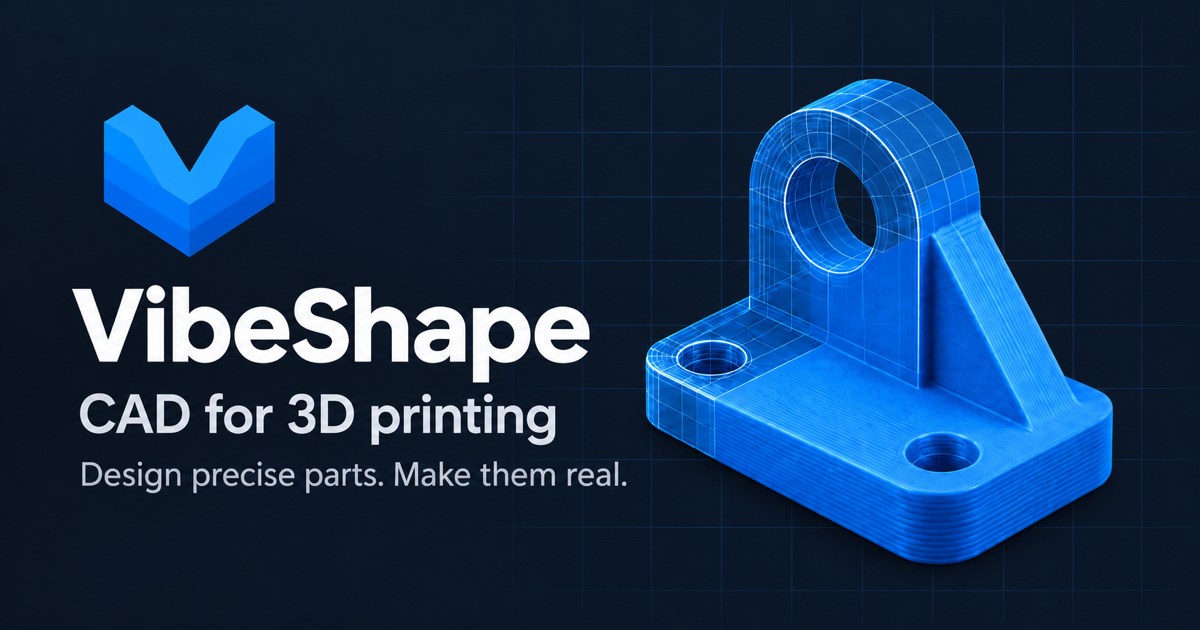
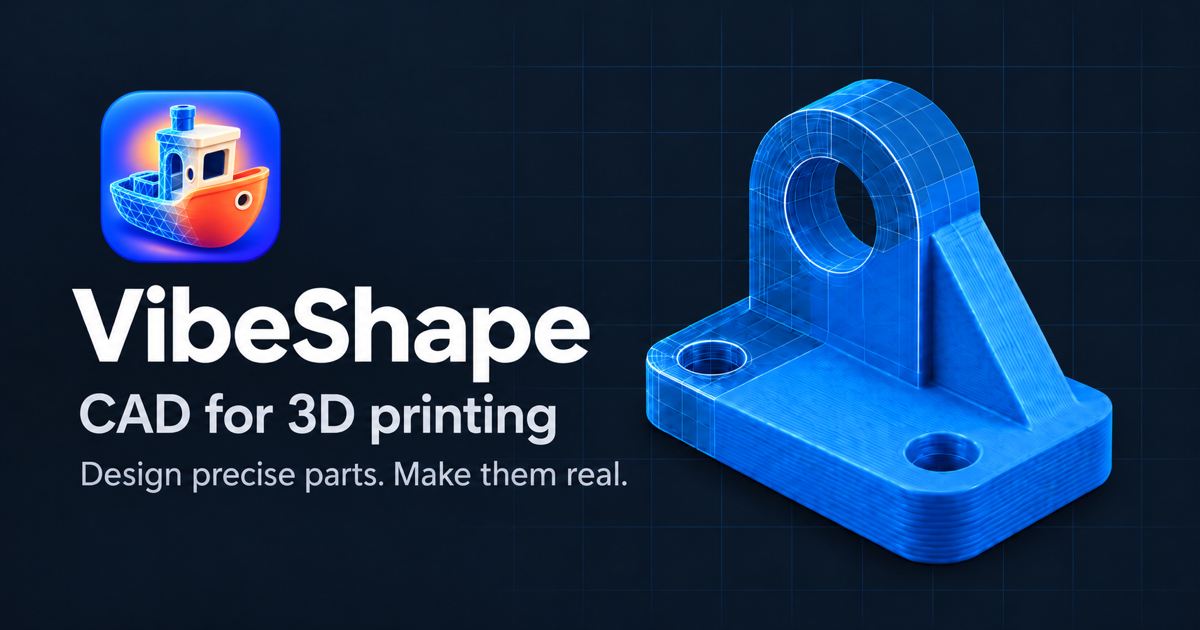
feat(site): unify Benchy branding and desktop downloads

diff --git a/tests/site/presentation.spec.ts b/tests/site/presentation.spec.ts
@@ -180,7 +180,7 @@ test("the presentation explains the workflow and links to the real editor", asyn
   )
   await expect(page.locator('meta[property="og:image"]').first()).toHaveAttribute(
     "content",
-    "https://vibeshape.hello-world.cz/brand/og-light.png",
+    "https://vibeshape.hello-world.cz/brand/og-light.png?v=benchy-mesh",
   )
   await page.getByRole("button", { name: "Sketch", exact: true }).click()
   await expect(page.getByRole("heading", { name: "Start with what has to fit." })).toBeVisible()
@@ -233,16 +233,29 @@ test("every documentation article supports direct links and return navigation", 
   await expect(page.getByRole("heading", { level: 1 })).toContainText("CAD for things")
 })
 
-test("downloads distinguish missing installers from usable installation paths", async ({
-  page,
-}) => {
+test("downloads show the published Mac release with aligned primary actions", async ({ page }) => {
+  await page.setViewportSize({ width: 1440, height: 900 })
   await page.goto("/#downloads")
   const downloads = page.locator("#downloads")
-  await expect(downloads.getByText("Not published yet", { exact: true })).toBeVisible()
-  await expect(downloads.getByRole("link", { name: "Check GitHub releases" })).toHaveAttribute(
+  await expect(downloads.getByText("macOS · Apple Silicon · v0.1.4", { exact: true })).toBeVisible()
+  await expect(downloads.getByRole("link", { name: "All releases & checksums" })).toHaveAttribute(
     "href",
     "https://github.com/kolengri/VibeShape/releases",
   )
+  await expect(downloads.getByRole("link", { name: "Download for Apple Silicon" })).toHaveAttribute(
+    "href",
+    "https://github.com/kolengri/VibeShape/releases/download/desktop-v0.1.4/VibeShape-0.1.4-mac-arm64.dmg",
+  )
+  await expect(downloads).toContainText("not notarized by Apple")
+  const actions = ["Open VibeShape", "Local installation guide", "Download for Apple Silicon"]
+  const bounds = await Promise.all(
+    actions.map((name) => downloads.getByRole("link", { name, exact: true }).boundingBox()),
+  )
+  for (const boundsAtIndex of bounds) {
+    expect(boundsAtIndex).not.toBeNull()
+    expect(boundsAtIndex?.y).toBeCloseTo(bounds[0]?.y ?? 0, 0)
+    expect(boundsAtIndex?.height).toBe(bounds[0]?.height)
+  }
   await expect(downloads.getByRole("link", { name: "macOS desktop build guide" })).toHaveAttribute(
     "href",
     "https://github.com/kolengri/VibeShape/blob/main/docs/desktop-macos.md",
@@ -439,12 +452,12 @@ test.describe("social previews", () => {
     )
     await expect(page.locator('meta[name="twitter:image"]')).toHaveAttribute(
       "content",
-      "https://vibeshape.hello-world.cz/brand/og-light.png",
+      "https://vibeshape.hello-world.cz/brand/og-light.png?v=benchy-mesh",
     )
     await expect(page.locator('meta[property="og:image:width"]')).toHaveCount(2)
     await expect(page.locator('meta[property="og:image:height"]')).toHaveCount(2)
     for (const [index, theme] of ["light", "dark"].entries()) {
-      const url = `https://vibeshape.hello-world.cz/brand/og-${theme}.png`
+      const url = `https://vibeshape.hello-world.cz/brand/og-${theme}.png?v=benchy-mesh`
       await expect(images.nth(index)).toHaveAttribute("content", url)
       await expect(page.locator('meta[property="og:image:width"]').nth(index)).toHaveAttribute(
         "content",

diff --git a/apps/site/index.html b/apps/site/index.html
@@ -11,25 +11,28 @@
     <meta property="og:site_name" content="VibeShape" />
     <meta property="og:locale" content="en_US" />
     <meta property="og:url" content="https://vibeshape.hello-world.cz/" />
-    <meta property="og:image" content="https://vibeshape.hello-world.cz/brand/og-light.png" />
-    <meta property="og:image:secure_url" content="https://vibeshape.hello-world.cz/brand/og-light.png" />
+    <meta property="og:image" content="https://vibeshape.hello-world.cz/brand/og-light.png?v=benchy-mesh" />
+    <meta property="og:image:secure_url" content="https://vibeshape.hello-world.cz/brand/og-light.png?v=benchy-mesh" />
     <meta property="og:image:type" content="image/png" />
     <meta property="og:image:width" content="1200" />
     <meta property="og:image:height" content="630" />
-    <meta property="og:image:alt" content="VibeShape CAD for 3D printing: blue mechanical bracket on a light blueprint grid." />
-    <meta property="og:image" content="https://vibeshape.hello-world.cz/brand/og-dark.png" />
-    <meta property="og:image:secure_url" content="https://vibeshape.hello-world.cz/brand/og-dark.png" />
+    <meta property="og:image:alt" content="VibeShape Benchy wireframe-to-solid logo and blue mechanical bracket on a light blueprint grid." />
+    <meta property="og:image" content="https://vibeshape.hello-world.cz/brand/og-dark.png?v=benchy-mesh" />
+    <meta property="og:image:secure_url" content="https://vibeshape.hello-world.cz/brand/og-dark.png?v=benchy-mesh" />
     <meta property="og:image:type" content="image/png" />
     <meta property="og:image:width" content="1200" />
     <meta property="og:image:height" content="630" />
-    <meta property="og:image:alt" content="VibeShape CAD for 3D printing: blue mechanical bracket on a dark blueprint grid." />
+    <meta property="og:image:alt" content="VibeShape Benchy wireframe-to-solid logo and blue mechanical bracket on a dark blueprint grid." />
     <meta name="twitter:card" content="summary_large_image" />
     <meta name="twitter:title" content="VibeShape — Design precise parts. Make them real." />
     <meta name="twitter:description" content="Free, local-first CAD for 3D printing. Your browser. Your models. Your next idea." />
-    <meta name="twitter:image" content="https://vibeshape.hello-world.cz/brand/og-light.png" />
-    <meta name="twitter:image:alt" content="VibeShape CAD for 3D printing: blue mechanical bracket on a light blueprint grid." />
+    <meta name="twitter:image" content="https://vibeshape.hello-world.cz/brand/og-light.png?v=benchy-mesh" />
+    <meta name="twitter:image:alt" content="VibeShape Benchy wireframe-to-solid logo and blue mechanical bracket on a light blueprint grid." />
     <link rel="canonical" href="https://vibeshape.hello-world.cz/" />
-    <link rel="icon" type="image/png" href="./favicon-32.png" />
+    <link rel="icon" href="./favicon.ico?v=benchy-mesh" sizes="16x16 32x32 48x48" />
+    <link rel="icon" type="image/png" href="./favicon-32.png?v=benchy-mesh" sizes="32x32" />
+    <link rel="icon" type="image/png" href="./favicon-192.png?v=benchy-mesh" sizes="192x192" />
+    <link rel="apple-touch-icon" href="./apple-touch-icon.png?v=benchy-mesh" sizes="180x180" />
     <title>VibeShape — CAD for things you can make</title>
   </head>
   <body>

diff --git a/apps/site/src/app.tsx b/apps/site/src/app.tsx
@@ -18,7 +18,14 @@ import {
 } from "lucide-react"
 import { type MouseEvent, type ReactNode, useEffect, useState, useSyncExternalStore } from "react"
 import { HeroVisual } from "./hero-visual"
-import { articles, editorUrl, referenceUrl, releasesUrl, repository } from "./links"
+import {
+  articles,
+  desktopDownloadUrl,
+  editorUrl,
+  referenceUrl,
+  releasesUrl,
+  repository,
+} from "./links"
 import { AnimatedScene, ConstructionPlanes, FeatureVisual, PrintVisual } from "./spatial-visuals"
 import { type WorkflowStage, WorkflowVisual } from "./workflow-visual"
 
@@ -91,7 +98,7 @@ function Header() {
           aria-label="VibeShape"
           className="flex shrink-0 items-center gap-2.5 text-xl font-semibold tracking-tight"
         >
-          <img src={assetUrl("brand/logo-mark.png")} alt="" width="32" height="32" />
+          <img src={assetUrl("brand/logo-mark.png?v=benchy-mesh")} alt="" width="32" height="32" />
           VibeShape
         </a>
         <nav aria-label={t("nav.label")} className="hidden items-center gap-7 text-sm md:flex">
@@ -492,16 +499,16 @@ function Downloads() {
             <p className="mb-7 mt-3 flex-1 text-sm leading-relaxed text-muted-foreground">
               {t("localBody")}
             </p>
+            <a
+              href={referenceUrl("docs/desktop-macos.md")}
+              className="mb-4 text-sm text-primary hover:underline"
+            >
+              {t("desktop")}
+            </a>
             <ActionLink href="#docs/local-installation" secondary>
               {t("localAction")}
               <ArrowRight size={16} />
             </ActionLink>
-            <a
-              href={referenceUrl("docs/desktop-macos.md")}
-              className="mt-4 text-sm text-primary hover:underline"
-            >
-              {t("desktop")}
-            </a>
           </div>
           <div className="flex flex-col rounded-xl border border-border bg-background p-7">
             <Download size={24} strokeWidth={1.5} className="mb-8 text-muted-foreground" />
@@ -510,8 +517,11 @@ function Downloads() {
             <p className="mb-7 mt-3 flex-1 text-sm leading-relaxed text-muted-foreground">
               {t("installerBody")}
             </p>
-            <ActionLink href={releasesUrl} secondary>
+            <a href={releasesUrl} className="mb-4 text-sm text-primary hover:underline">
               {t("releases")}
+            </a>
+            <ActionLink href={desktopDownloadUrl} secondary>
+              {t("desktopAction")}
               <ArrowUpRight size={16} />
             </ActionLink>
           </div>
@@ -643,7 +653,12 @@ function Footer() {
             href="#overview"
             className="flex items-center gap-2 text-lg font-semibold tracking-tight"
           >
-            <img src={assetUrl("brand/logo-mark.png")} alt="" width="25" height="25" />
+            <img
+              src={assetUrl("brand/logo-mark.png?v=benchy-mesh")}
+              alt=""
+              width="25"
+              height="25"
+            />
             VibeShape
           </a>
           <p className="mt-3 text-xs text-muted-foreground">{t("line")}</p>

diff --git a/apps/web/index.html b/apps/web/index.html
@@ -18,14 +18,14 @@
     <meta property="og:url" content="https://vibeshape-greg.pages.dev/" />
     <meta
       property="og:image"
-      content="https://vibeshape-greg.pages.dev/brand/og-dark.png"
+      content="https://vibeshape-greg.pages.dev/brand/og-dark.png?v=benchy-mesh"
     />
     <meta property="og:image:type" content="image/png" />
     <meta property="og:image:width" content="1200" />
     <meta property="og:image:height" content="630" />
     <meta
       property="og:image:alt"
-      content="VibeShape logo beside a blue bracket transitioning from CAD wireframe to 3D-printed layers."
+      content="VibeShape Benchy wireframe-to-solid logo beside a blue bracket transitioning from CAD wireframe to 3D-printed layers."
     />
     <meta name="twitter:card" content="summary_large_image" />
     <meta name="twitter:title" content="VibeShape — CAD for 3D printing" />
@@ -35,16 +35,16 @@
     />
     <meta
       name="twitter:image"
-      content="https://vibeshape-greg.pages.dev/brand/og-dark.png"
+      content="https://vibeshape-greg.pages.dev/brand/og-dark.png?v=benchy-mesh"
     />
     <meta
       name="twitter:image:alt"
-      content="VibeShape logo beside a blue bracket transitioning from CAD wireframe to 3D-printed layers."
+      content="VibeShape Benchy wireframe-to-solid logo beside a blue bracket transitioning from CAD wireframe to 3D-printed layers."
     />
-    <link rel="icon" href="/favicon.ico" sizes="16x16 32x32 48x48" />
-    <link rel="icon" type="image/png" href="/favicon-32.png" sizes="32x32" />
-    <link rel="icon" type="image/png" href="/favicon-192.png" sizes="192x192" />
-    <link rel="apple-touch-icon" href="/apple-touch-icon.png" sizes="180x180" />
+    <link rel="icon" href="/favicon.ico?v=benchy-mesh" sizes="16x16 32x32 48x48" />
+    <link rel="icon" type="image/png" href="/favicon-32.png?v=benchy-mesh" sizes="32x32" />
+    <link rel="icon" type="image/png" href="/favicon-192.png?v=benchy-mesh" sizes="192x192" />
+    <link rel="apple-touch-icon" href="/apple-touch-icon.png?v=benchy-mesh" sizes="180x180" />
     <title>VibeShape</title>
   </head>
   <body>

diff --git a/apps/site/src/links.ts b/apps/site/src/links.ts
@@ -1,6 +1,7 @@
 export const repository = "https://github.com/kolengri/VibeShape"
 export const editorUrl = "https://cad.hello-world.cz"
 export const releasesUrl = `${repository}/releases`
+export const desktopDownloadUrl = `${repository}/releases/download/desktop-v0.1.4/VibeShape-0.1.4-mac-arm64.dmg`
 export const referenceUrl = (path: string) => `${repository}/blob/main/${path}`
 
 export const articles = [

diff --git a/docs/desktop-macos.md b/docs/desktop-macos.md
@@ -28,13 +28,13 @@ bundle; omitting it uses the same default bundle directory as `prepare:local`.
 The first Electron invocation downloads the pinned runtime and checks its upstream checksums.
 Packaging also uses macOS `sips`, `iconutil`, `codesign`, `hdiutil`, Swift/AppKit and
 `osascript`/Finder. It emits a runnable
-`VibeShape-darwin-arm64/VibeShape.app`, a `VibeShape-0.1.3-mac-arm64.dmg`, `SHA256SUMS`, and a
+`VibeShape-darwin-arm64/VibeShape.app`, a `VibeShape-0.1.4-mac-arm64.dmg`, `SHA256SUMS`, and a
 `desktop-build.json` recording the source commit, editor inventory, main/preload/MCP bundles and image digest.
 The same script accepts `x64`; that target requires its own actual Mac acceptance evidence before
 release. The local Apple Silicon artifact does not establish Intel compatibility.
 
 Every package generates a branded drag-to-Applications disk image. Its background reuses the
-calibration-tugboat artwork with an arrow between the app and Applications. The repository-owned
+Benchy wireframe-to-solid artwork with an arrow between the app and Applications. The repository-owned
 AppKit renderer creates a 144 dpi background; Finder sets the mounted image to a fixed icon view.
 Automation targets only the uniquely mounted staging folder, closes its own window and detaches
 the image before compression and verification. It does not change global Finder settings. An
@@ -43,15 +43,17 @@ the package rather than shipping an unformatted installer.
 
 The generated application icon master is `apps/web/public/brand/app-icon.png` (1024 px).
 Packaging exports all standard macOS icon sizes into the app's `.icns` resource. The browser
-favicon and Apple touch icon use the same original calibration-tugboat artwork.
+favicon and Apple touch icon use the same original Benchy wireframe-to-solid artwork.
 
 Open the disk image, copy `VibeShape.app` to Applications and launch it. The current local artifact
 is ad-hoc signed and verified, without Developer ID or notarization. Local ad-hoc signing leaves
 Hardened Runtime off because it has no Team ID for library validation; the Chromium renderer
 sandbox and context isolation remain enabled. A public signed/notarized release must use the
 appropriate Hardened Runtime signing policy with its Developer ID identity. Do not disable Gatekeeper or
-remove quarantine as part of the application workflow. Public distribution remains gated on
-signing/notarization and the repository's release compliance review.
+remove quarantine as part of the application workflow. The published Apple Silicon release channel
+currently uses this explicitly disclosed ad-hoc delivery type. Developer ID signing and notarization
+are required before describing a build as Apple-authenticated or notarized. Exact-source delivery and
+the repository's release compliance requirements still apply.
 
 ## Projects and lifecycle
 
@@ -192,12 +194,14 @@ offers an explicit download. The native Save dialog chooses its destination, pro
 window, and a completed verified image can be revealed in Finder. Quit VibeShape before replacing
 the installed app. The checker never silently installs or opens downloaded software.
 
-Release owners prepare a source-matched, reviewed build and complete signing/notarization and
-compliance checks before publishing a stable GitHub Release:
+Release owners prepare a source-matched build, complete its applicable runtime and compliance
+checks, and disclose its actual signing/notarization status before publishing a GitHub Release.
+The current Apple Silicon channel is ad-hoc signed and not notarized; it must not claim Developer ID
+authentication. A Developer ID release additionally requires its signing and notarization checks:
 
-- Tag: `desktop-v0.1.3` for desktop package version `0.1.3`.
-- Apple Silicon asset: `VibeShape-0.1.3-mac-arm64.dmg`.
-- Intel asset, only after target verification: `VibeShape-0.1.3-mac-x64.dmg`.
+- Tag: `desktop-v0.1.4` for desktop package version `0.1.4`.
+- Apple Silicon asset: `VibeShape-0.1.4-mac-arm64.dmg`.
+- Intel asset, only after target verification: `VibeShape-0.1.4-mac-x64.dmg`.
 - Upload the image as a GitHub release asset with an advertised `sha256:` digest and matching size.
 - Include checksums and corresponding-source provenance with the release.
 

diff --git a/docs/presentation-site.md b/docs/presentation-site.md
@@ -100,7 +100,7 @@ part of the domain setup handoff.
 
 - `apps/site/src/messages/en.json` owns typed English copy and introductory articles.
 - `apps/site/src/links.ts` owns public destinations and each article's canonical repository reference.
-- `apps/site/public/brand` reuses the editor's existing brand assets. The hero labels its image as
+- `apps/site/public/brand` reuses the editor's Benchy wireframe-to-solid brand assets. The hero labels its image as
   an illustration rather than an editor screenshot.
 - Documentation uses `#docs/<topic>` links; section links and browser Back work on static hosts.
 - The canonical technical documents remain under `docs/`; update introductory copy when those
@@ -108,14 +108,15 @@ part of the domain setup handoff.
 
 ## Downloads and release maintenance
 
-As verified on October 19, 2026, the public GitHub release contains an OCCT corresponding-source
-archive, not VibeShape desktop installers. The site states that installers are not published and
-links to source installation, portable package preparation, and the release index. It must not
-present the OCCT archive as an application download or claim Windows installer availability.
+The downloads section links to the Apple Silicon macOS DMG for desktop v0.1.4 and to the
+GitHub release index for release notes, checksums, and source provenance. The package is ad-hoc
+signed and is not notarized by Apple; the site states this beside the download. Intel Mac,
+Windows, and Linux installers are not published. The separate OCCT source archive is not an
+application installer.
 
-When application installers are published, update the availability text and date, add the verified
-platform/architecture asset links to `links.ts`, and update the download browser test. Keep build
-instructions distinct from ready-to-run downloads. The site does not fetch GitHub on visitor load.
+When publishing a desktop release, update the version and asset URL in `links.ts`, the typed
+English availability copy, and the download browser test in the same task. Verify the asset
+exists before deploying the site. The site does not fetch GitHub on visitor load.
 
 ## Static handoff
 
